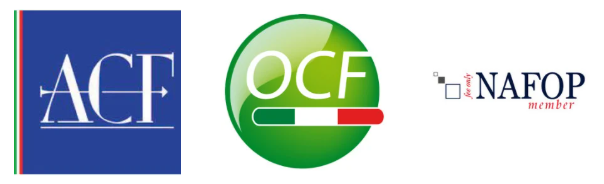
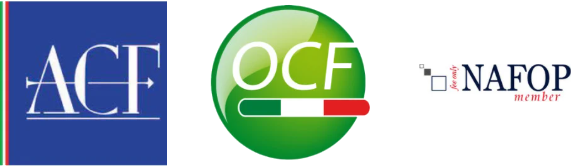
Add files via upload

diff --git a/site.css b/site.css
@@ -92,5 +92,5 @@ footer .legal{border-top:1px solid rgba(255,255,255,.2);padding-top:22px;font-si
 .mock{margin-bottom:34px}
 .stats-sec{padding-block:40px 8px}
 
-.enti{background:#fff;border-radius:14px;padding:12px 18px;display:inline-block;margin-bottom:26px}.enti img{display:block;height:96px;width:auto;max-width:100%}
+.enti{display:block;width:100%;text-align:center;margin:10px 0 30px}.enti img{display:inline-block;width:min(100%,520px);height:auto}
 details.note summary{list-style:revert;cursor:pointer;display:list-item;color:var(--g)}details.note summary::after{content:none}
